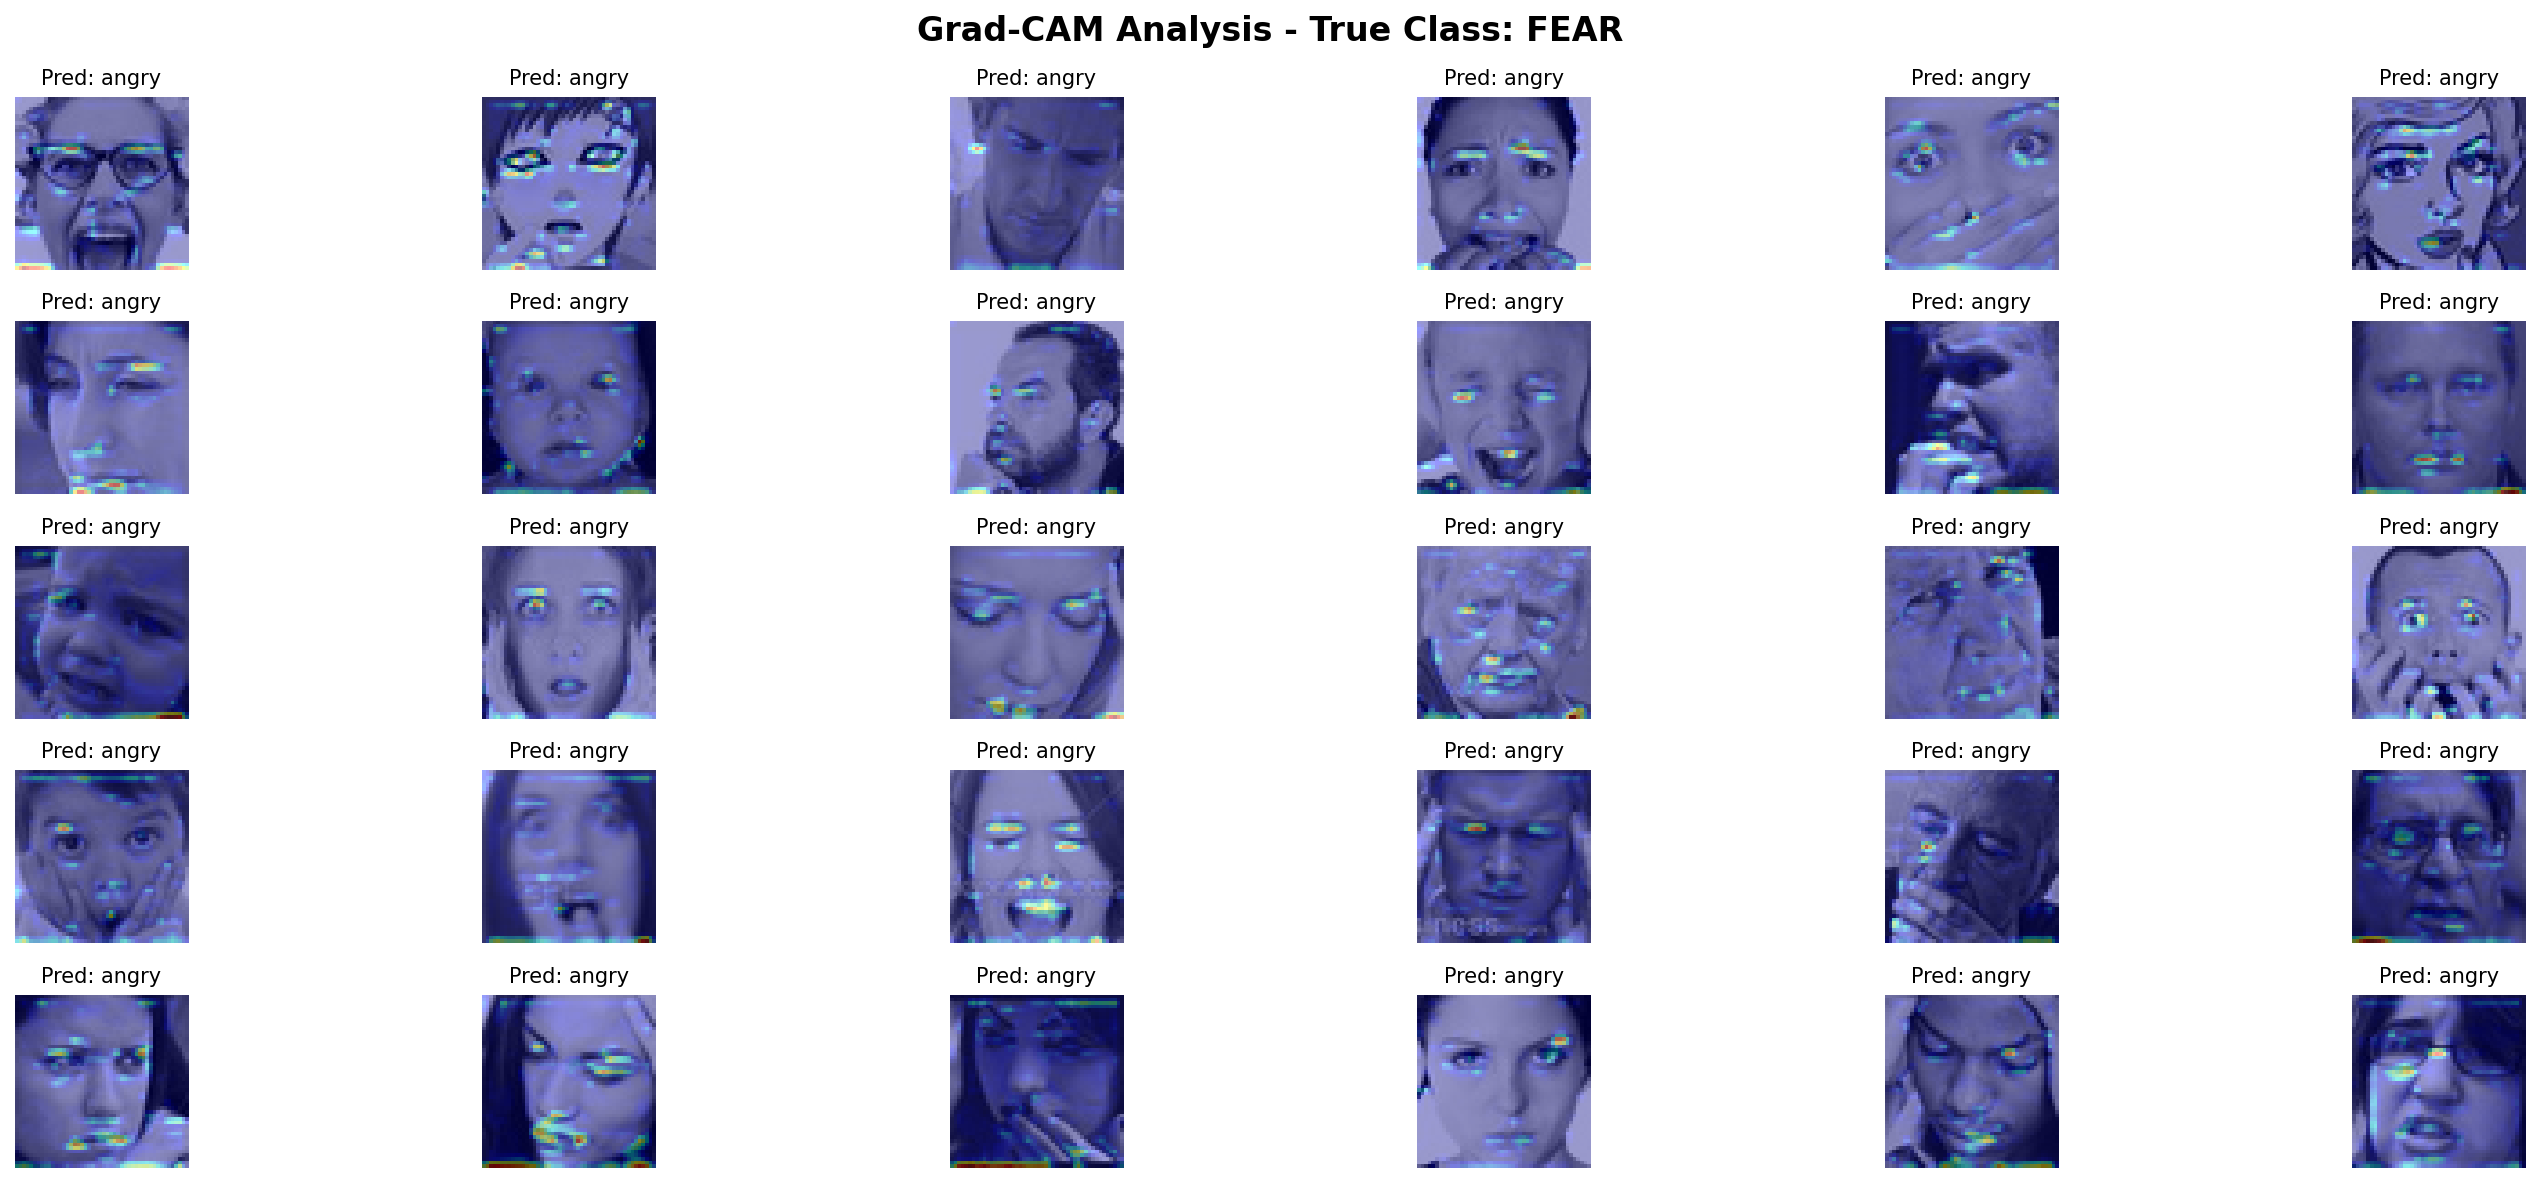
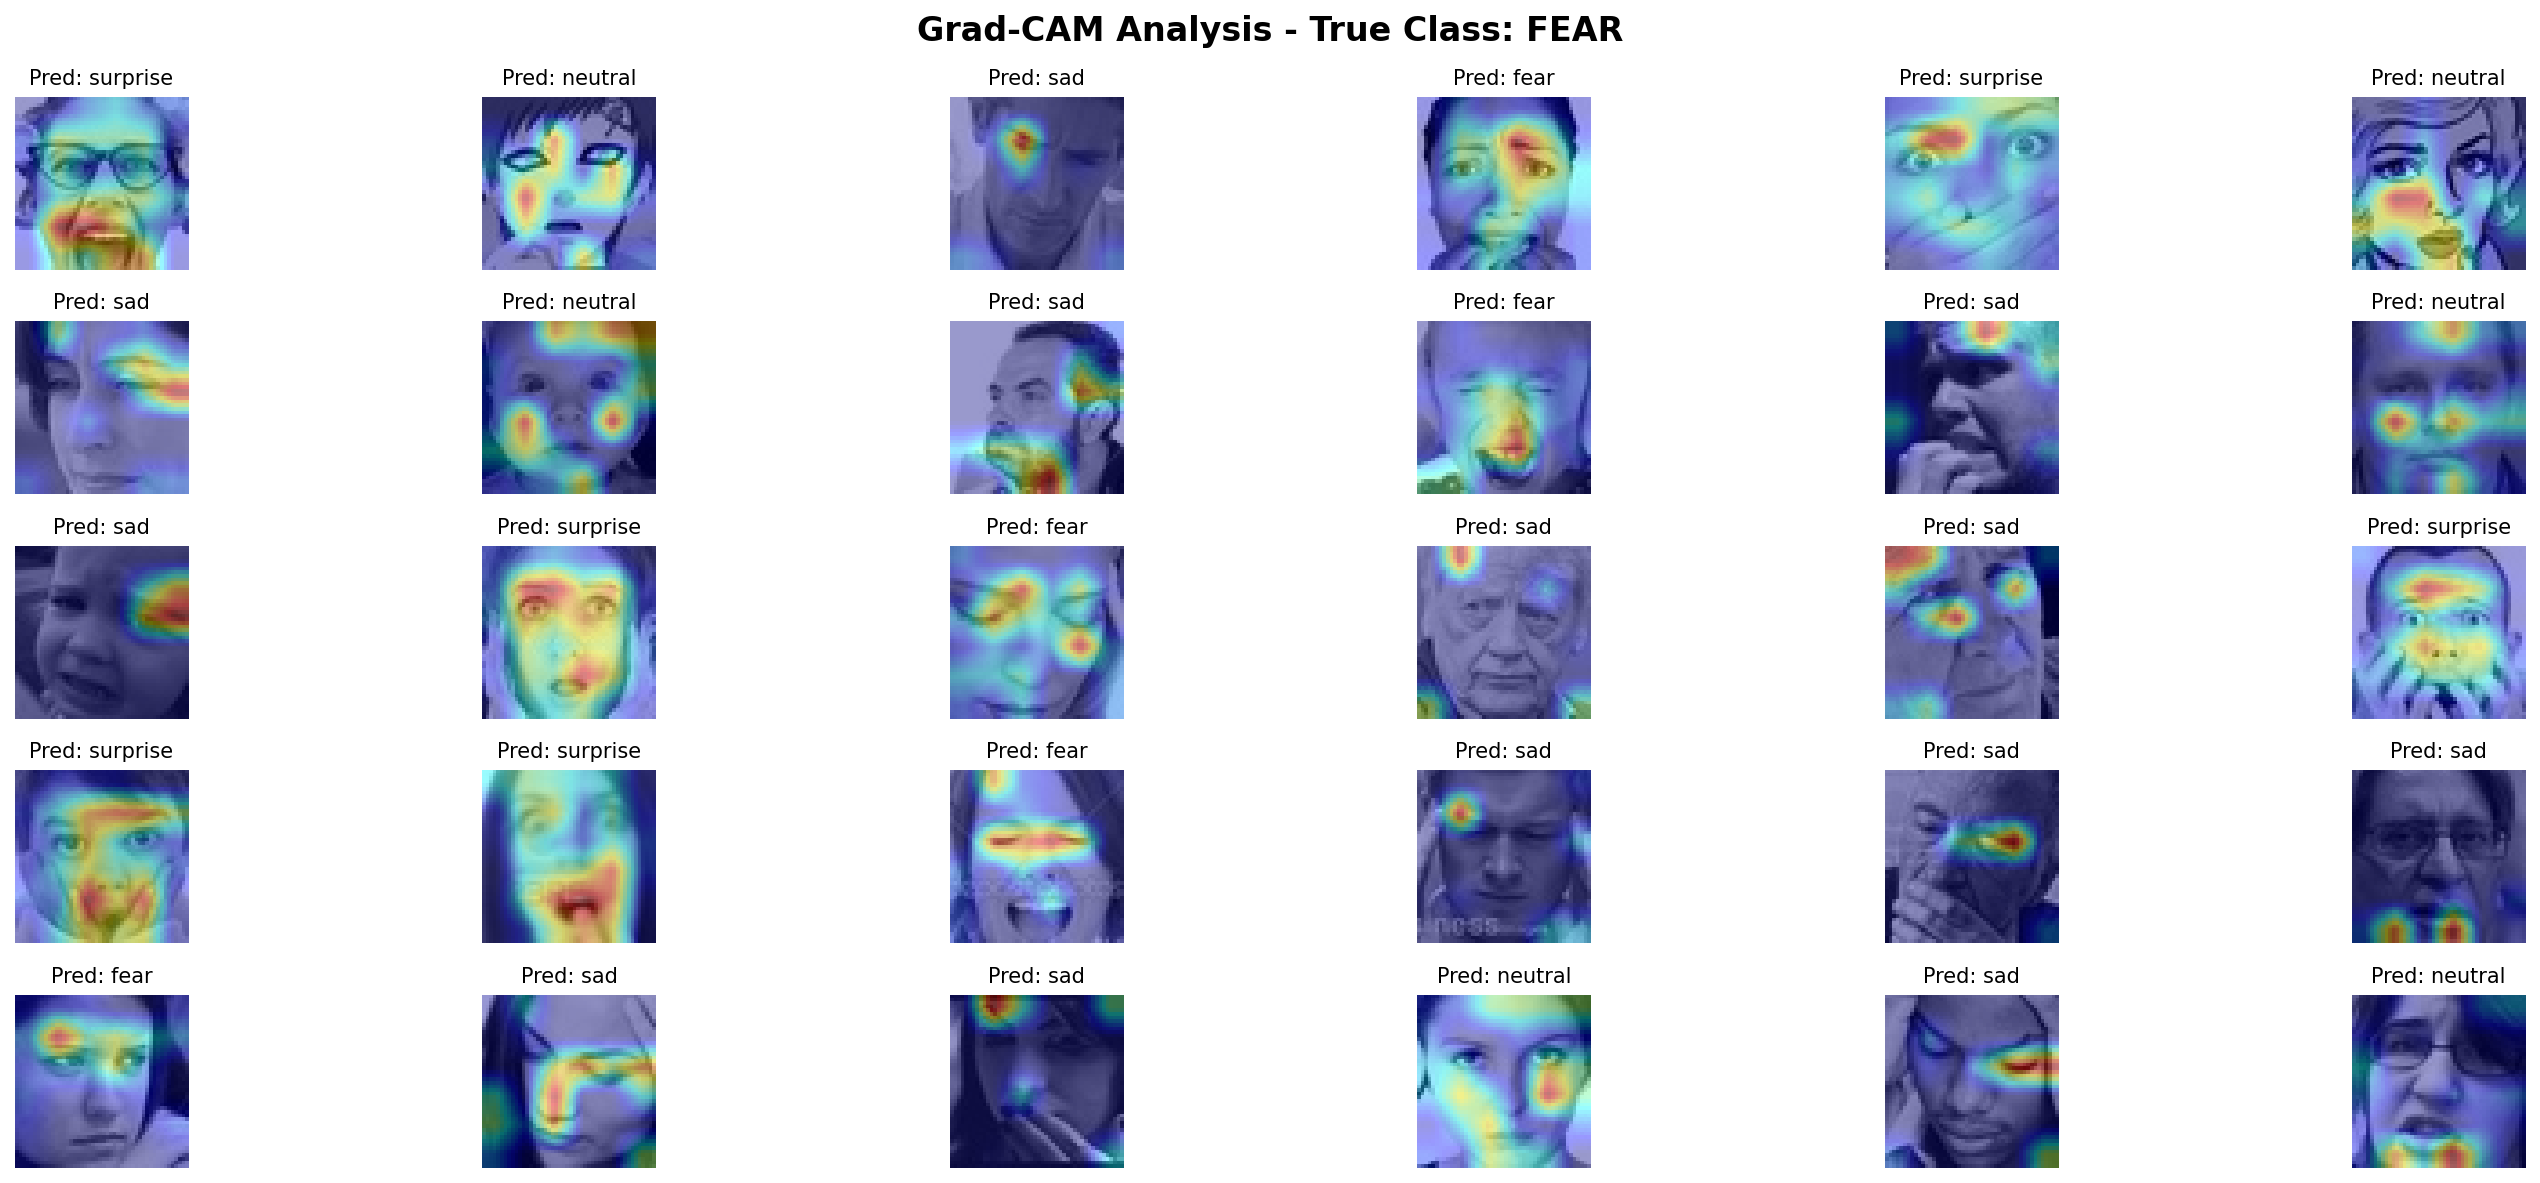
fix labeling issues and fix gradcam

diff --git a/scripts/gradcam.py b/scripts/gradcam.py
@@ -8,29 +8,62 @@ import torchvision.models as models
 import cv2
 import matplotlib.pyplot as plt
 import os
+from cnn_model import EfficientFERNet
 
-# used this as inspiration and used copilot's assistanc ewith the code
 # load the model
-model = models.resnet50(pretrained=False)
-# make sure the last layer we have matches the output
-model.fc = nn.Linear(model.fc.in_features, 6)
+def find_model_and_tranform(model_type='efficient', model_path='our_cnn_50_epoch.pth'):
+    model = None
+    transform = None
+    if model_type == 'efficient':
+        model = EfficientFERNet(width_mult=0.75)  # Update width_mult to match the checkpoint
+        # Adjust the classifier layer for the custom model
+        model.classifier[-1] = nn.Linear(model.classifier[-1].in_features, 6)
 
-# load the weights
-state_dict = torch.load('resnet50_5step_.1.pth', map_location='cpu')
-model.load_state_dict(state_dict)
-model.eval()
+        # load the weights
+        state_dict = torch.load(model_path, map_location='cpu')
+        
+        # Extract the model weights from the state_dict
+        if 'model_state_dict' in state_dict:
+            state_dict = state_dict['model_state_dict']
 
-# transform the input images 
-transform = transforms.Compose([
-    transforms.Resize((224, 224)),
-    transforms.Grayscale(num_output_channels=3),  # Convert grayscale to RGB
-    transforms.ToTensor(),
-    transforms.Normalize(mean=[0.485, 0.456, 0.406],
-                         std=[0.229, 0.224, 0.225])
-])
+        # Load the extracted weights into the model
+        try:
+            model.load_state_dict(state_dict, strict=True)
+            print("Model weights loaded successfully.")
+        except RuntimeError as e:
+            print("Error loading state_dict:", e)
 
+        transform = transforms.Compose([
+            transforms.Grayscale(num_output_channels=1),
+            transforms.Resize((48, 48)),
+            transforms.ToTensor(),
+            transforms.Normalize(mean=[0.5], std=[0.5])
+        ])
+    elif model_type == 'resnet':
+        # used this as inspiration and used copilot's assistanc ewith the code
+        # load the model
+        model = models.resnet50(pretrained=False)
+        # make sure the last layer we have matches the output
+        model.fc = nn.Linear(model.fc.in_features, 6)
+
+        # load the weights
+        state_dict = torch.load('resnet50_5step_.1.pth', map_location='cpu')
+        model.load_state_dict(state_dict)
+
+        # transform the input images 
+        transform = transforms.Compose([
+            transforms.Resize((224, 224)),
+            transforms.Grayscale(num_output_channels=3),  # Convert grayscale to RGB
+            transforms.ToTensor(),
+            transforms.Normalize(mean=[0.485, 0.456, 0.406],
+                                 std=[0.229, 0.224, 0.225])
+        ])
+
+    model.eval()
+    return model, transform
+    
 # class names for expressions
-class_names = ['angry', 'disgust', 'fear', 'happy', 'sad', 'surprise']
+class_names = ['angry', 'fear', 'happy', 'neutral', 'sad', 'surprise']
 
 class GradCAM:
     def __init__(self, model, target_layer):
@@ -86,7 +119,7 @@ class GradCAM:
         self.backward_handle.remove()
 
 
-def generate_gradcam(image_path, model, target_layer, target_class=None):
+def generate_gradcam(image_path, model, transform, target_layer, target_class=None):
     """Generate Grad-CAM heatmap for a given image."""
     # Load and preprocess the image
     image = Image.open(image_path).convert('RGB')
@@ -125,7 +158,7 @@ def overlay_gradcam(image, gradcam, alpha=0.4, colormap=cv2.COLORMAP_JET):
     return overlayed_image
 
 
-def process_class_images(test_dir, class_name, model, target_layer, output_dir, num_images=100):
+def process_class_images(test_dir, class_name, model, transform, target_layer, output_dir, num_images=100):
     """Process 10 images from a class, generate Grad-CAM, and save results."""
     
     # Create output directory for this class
@@ -148,7 +181,7 @@ def process_class_images(test_dir, class_name, model, target_layer, output_dir, 
         
         # Generate Grad-CAM
         gradcam, pred_class, original_image = generate_gradcam(
-            image_path, model, target_layer
+            image_path, model, transform, target_layer
         )
         
         # Create overlay
@@ -178,7 +211,7 @@ def process_class_images(test_dir, class_name, model, target_layer, output_dir, 
     return overlayed_images, predictions
 
 
-def analyze_all_classes(test_dir, model, target_layer, output_base_dir='gradcam_analysis', num_images=30):
+def analyze_all_classes(test_dir, model, transform, target_layer, output_base_dir='gradcam_analysis', num_images=30):
     """Process all classes and generate Grad-CAM visualizations."""
     
     # Create base output directory
@@ -189,7 +222,7 @@ def analyze_all_classes(test_dir, model, target_layer, output_base_dir='gradcam_
     
     for class_name in class_names:
         overlayed_images, predictions = process_class_images(
-            test_dir, class_name, model, target_layer, output_base_dir, num_images
+            test_dir, class_name, model, transform, target_layer, output_base_dir, num_images
         )
         
         all_results[class_name] = {
@@ -217,8 +250,15 @@ def analyze_all_classes(test_dir, model, target_layer, output_base_dir='gradcam_
 
 # Main execution
 if __name__ == "__main__":
-    # For ResNet50, use the last convolutional layer (layer4)
-    target_layer = model.layer4[-1]
+    model, transform = find_model_and_tranform(model_type='efficient', model_path='our_cnn_50_epoch.pth')
+    
+    # set the target layer based on model type
+    if isinstance(model, EfficientFERNet):
+        target_layer = model.blocks[-1]
+    elif isinstance(model, models.ResNet):
+        target_layer = model.layer4[-1]
+    else:
+        raise ValueError("Unsupported model type for Grad-CAM.")
     
     # Base directory containing test images organized by class
     test_dir = '/Users/armina/Documents/GitHub/cv-facial-expression-detection/datasets/fer2013/test'
@@ -230,6 +270,7 @@ if __name__ == "__main__":
     results = analyze_all_classes(
         test_dir=test_dir,
         model=model,
+        transform=transform,
         target_layer=target_layer,
         output_base_dir=output_dir,
         num_images=30
